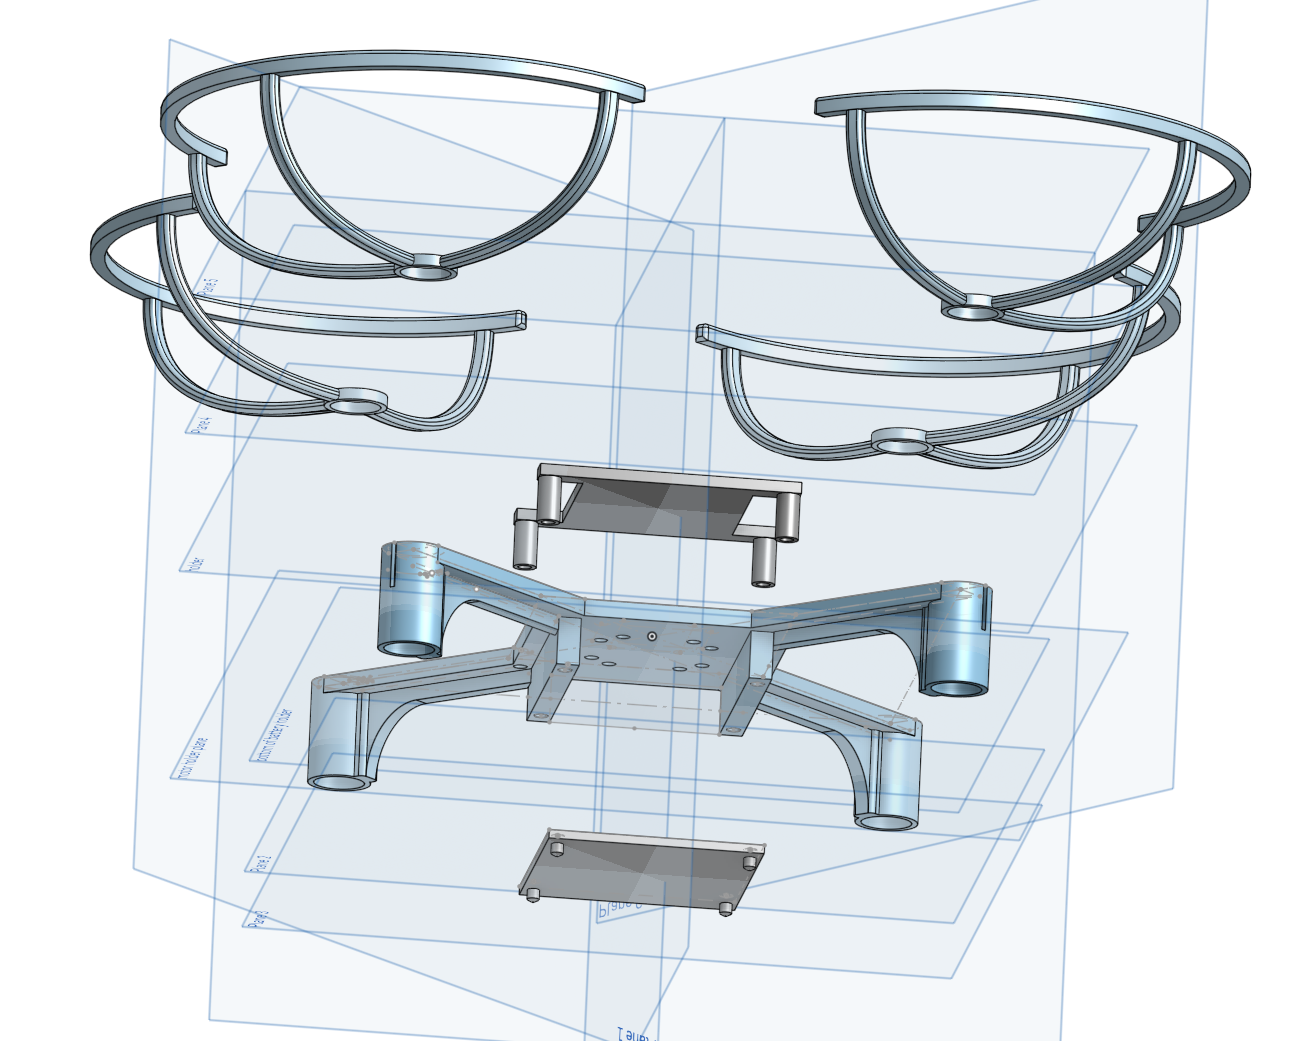
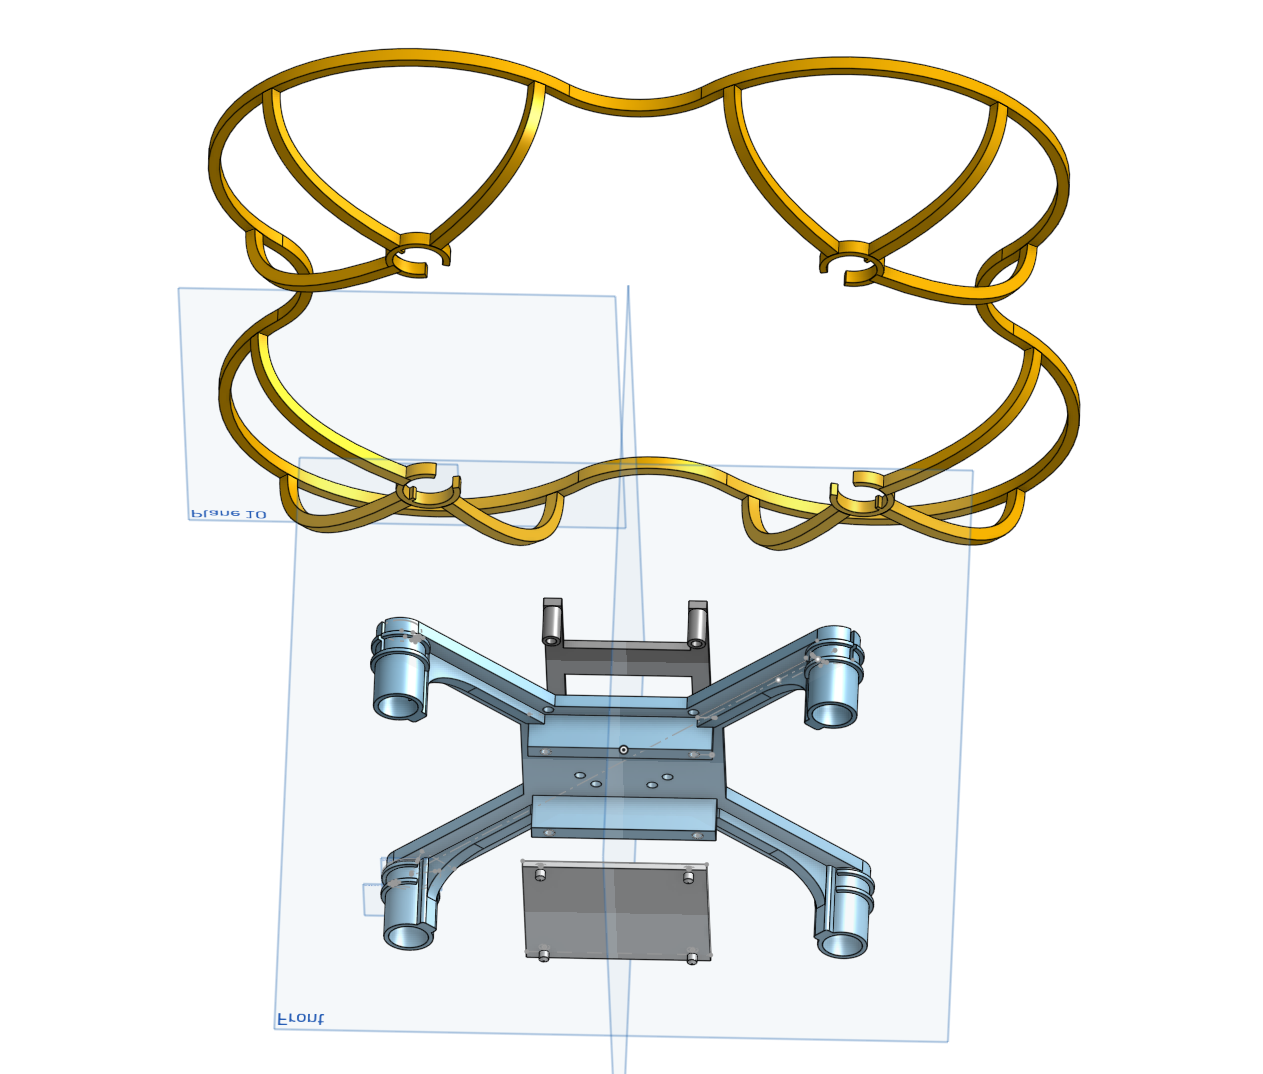
gamepad is now ground_control

diff --git a/firmware/src/main.rs b/firmware/src/main.rs
@@ -380,11 +380,17 @@ impl<'a> Motors<'a> {
         self.rr.set_duty_hw(duty);
     }
 
+    pub fn turn_off(&self) {
+        self.fl.set_duty(0).expect("failed to set duty");
+        self.fr.set_duty(0).expect("failed to set duty");
+        self.rl.set_duty(0).expect("failed to set duty");
+        self.rr.set_duty(0).expect("failed to set duty");
+    }
+
     // set per-motor duties independently, returns the computed hw duty values for logging
     pub fn set_motors(&self, fl: f32, fr: f32, rl: f32, rr: f32) -> (u32, u32, u32, u32) {
-        // TODO: this THROTTLE_CAP is more a safety feature for my poor fingers during testing
         let duty = |v: f32| {
-            (v.clamp(0., 1.) * (crate::THROTTLE_CAP as f32 / 100.) * crate::PWM_MAX_DUTY as f32)
+            ((v.clamp(0., 1.) * crate::PWM_MAX_DUTY as f32) * (crate::THROTTLE_CAP as f32 / 100.))
                 as u32
         };
         let duties = (duty(fl), duty(fr), duty(rl), duty(rr));

diff --git a/firmware/src/flight.rs b/firmware/src/flight.rs
@@ -194,7 +194,7 @@ pub async fn run_dmp(
         let pkt = match *wifi::CONTROLS.lock().await {
             Some((p, received_at)) if received_at.elapsed() < Duration::from_millis(500) => p,
             _ => {
-                motors.set_all_duty(0);
+                motors.turn_off();
                 continue;
             }
         };
@@ -213,7 +213,7 @@ pub async fn run_dmp(
         last_armed = armed;
 
         if !armed {
-            motors.set_all_duty(0);
+            motors.turn_off();
             continue;
         }
 
@@ -256,13 +256,13 @@ pub async fn run_dmp(
 
         // like controlTorque / motor mixing (flix)
         if t < 0.05 {
-            motors.set_all_duty(0);
+            motors.turn_off();
             continue;
         }
 
         // up-vector cross product gives roll/pitch error (flix rotationVectorBetween)
         // arg order matches flix: actual * target (swapped gives negated error vector)
-        let att_err = rotate_up(&quat).cross(&rotate_up(&target_quat)); // flix Vector::rotationVectorBetween — cross product of two up-vectors gives the attitude error
+        let att_err = rotate_up(&quat).cross(&rotate_up(&target_quat)); // flix Vector::rotationVectorBetween - cross product of two up-vectors gives the attitude error
         let roll_rate_sp = ANGLE_P_ROLL_PITCH * att_err.x;
         let pitch_rate_sp = ANGLE_P_ROLL_PITCH * att_err.y;
         let yaw_rate_sp = ANGLE_P_YAW * wrap_angle(target_yaw - actual_yaw) + yaw_ff;

diff --git a/libs/src/control.rs b/libs/src/control.rs
@@ -1,8 +1,8 @@
-//! control packet shared between the gamepad binary and ESP32 firmware
+//! control packet shared between the ground control binary and ESP32 firmware
 pub const MAGIC: [u8; 4] = *b"QUAD";
 pub const DEFAULT_SIZE: usize = 18; // 4 (magic) + 1 (throttle) + 4+4+4 (roll/pitch/yaw f32 be) + 1 (flags)
 
-/// control packet sent from the gamepad PC to the ESP32 over UDP.
+/// control packet sent from the ground control PC to the ESP32 over UDP.
 /// Serialized as big-endian: 1× u8 + 3× f32 + 1× u8 = 14 bytes.
 #[derive(Debug, Clone, Copy, PartialEq)]
 pub struct ControlPacket {

diff --git a/firmware/src/wifi.rs b/firmware/src/wifi.rs
@@ -18,7 +18,7 @@ use esp_radio::wifi::{
 use libs::control::{self, ControlPacket};
 use static_cell::StaticCell;
 
-// latest control input from the gamepad, stamped at receive time for failsafe
+// latest control input from ground control, stamped at receive time for failsafe
 pub static CONTROLS: Mutex<CriticalSectionRawMutex, Option<(ControlPacket, Instant)>> =
     Mutex::new(None);
 

diff --git a/README.md b/README.md
@@ -4,11 +4,19 @@ currently still a work in progress, building a (very) mini quadcopter for esp32 
 
 ## Quad assets
 
-![drone frame](/images/assembly.png)
+![drone frame](/images/drone_frame.png)
 
 The frame stl & 3mf files are in the `stl/` dir and can be used to 3d print the frame. I created them in OnShape. For the battery compartment, I opted for a friction fit with pegs that you can also glue in. This got around some issues with printing supports that were a pain to remove.
 
 There's a top stand that serves as a mount for the microcontroller and MPU6050 or ICM20948. I'll include a full parts list as the project progresses.
+
+I've also created a prop guard you can mount as a single piece or in two halves, see the 3mf file in `stl/`
+
+![prop guard](/images/drone_top.png)
+
+They have a C-snap fit to the motor holders that should lock them into place pretty well. I've printed with a 0.4 and 0.6 nozzle on a bambu a1 and both results are usable. Obviously if you want cleaner layer lines go for the smaller nozzle.
+
+I've printed in PLA, PETG and PETG-CF & GF. PLA seems totally fine, the drone frame is around 16 grams. The props are heavy at an additional 16 grams. They might require a bit of re-design but for indoor testing not so bad.
 
 ## Parts list
 
@@ -84,6 +92,10 @@ cargo run   --no-default-features --features c6 --target riscv32imac-unknown-non
 DEFMT_LOG=debug cargo flash-c3
 ```
 
+### Throttle cap
+
+`THROTTLE_CAP` sets the max throttle at compile time, it will map your throttle input from 0-100 over the range you specify. For example, if you set `THROTTLE_CAP=50` and push the throttle to 80% it will translate into `.8 * 50 = 40%`.
+
 ## Visualizer
 
 to see a 3d rendering of the orientation run:
@@ -100,9 +112,9 @@ By default, sensor readings from the ICM-20948 are sent to the ESP32-C3 where ei
 DEFMT_LOG="info" LOG_RATE_MS=1 cargo flash-c3 --features visualize | (cd visualizer && cargo run)
 ```
 
-## Gamepad control
+## Ground control
 
-The `gamepad/` crate is a PC-side sender that reads a gamepad and streams control packets to the drone over UDP.
+The `ground_control/` crate is a PC-side sender that reads a gamepad and streams control packets to the drone over UDP.
 
 The drone runs a wifi AP (`esp-quad`, WPA2) with a static IP of `192.168.4.1`. There is no DHCP server, so you must assign yourself a static IP when connecting. The trick is to do this in a single `nmcli con add` — adding security and static IP separately doesn't work reliably:
 
@@ -124,13 +136,13 @@ nmcli dev wifi rescan
 nmcli con up esp-quad
 ```
 
-Then run the gamepad sender:
+Then run the ground control sender:
 
 ```sh
-cd gamepad && cargo run
+cd ground_control && cargo run
 ```
 
-The right stick Y axis controls throttle (center = 0%, full up = 100%). The Start button toggles arm. Motors only spin when armed and throttle is above 0.
+The left stick Y axis controls throttle (center = 0%, full up = 100%), left stick X controls yaw, and the right stick controls pitch/roll. The Start button toggles arm. Motors only spin when armed and throttle is above 0.
 
 The drone IP and port can be overridden at build time:
 